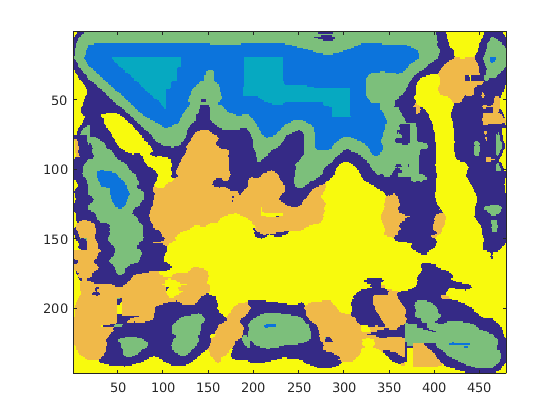
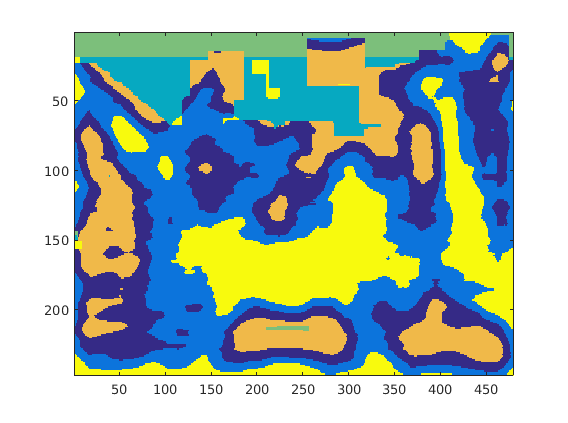
more results

diff --git a/segmentMain.m b/segmentMain.m
@@ -94,11 +94,19 @@ imagesc(textureLargeWin); print('images/gumballs_large.png', '-dpng', '-r0');
 disp('done.')
 close
 
-disp('Comparing different sets of filters...')
+disp('Comparing different sets of filters for gumballs...')
 figure;
 [~, textureFullset] = compareSegmentations(I, F, T, 35, 6, 6);
 [~, textureSubset] = compareSegmentations(I, F2, T2, 35, 6, 6);
 imagesc(textureFullset); print('images/gumballs_fullset.png', '-dpng', '-r0');
 imagesc(textureSubset); print('images/gumballs_subset.png', '-dpng', '-r0');
+close
+
+disp('Comparing different sets of filters for car...')
+figure;
+[~, textureFullset] = compareSegmentations(L, F, T, 35, 6, 6);
+[~, textureSubset] = compareSegmentations(L, F2, T2, 35, 6, 6);
+imagesc(textureFullset); print('images/car_fullset.png', '-dpng', '-r0');
+imagesc(textureSubset); print('images/car_subset.png', '-dpng', '-r0');
 disp('done.')
 close
